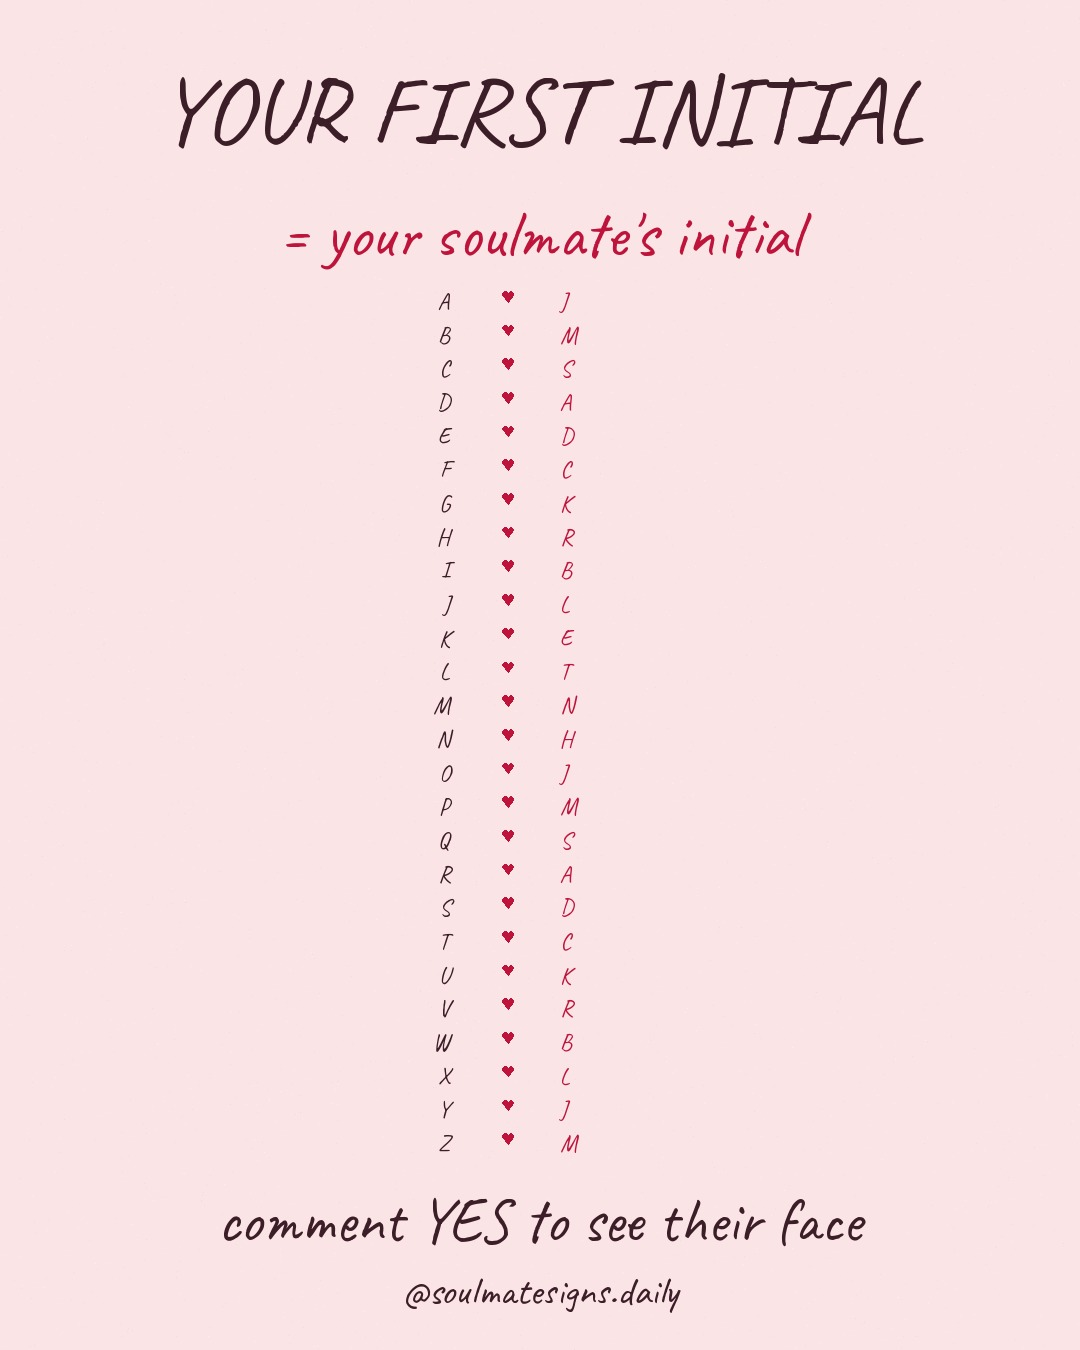
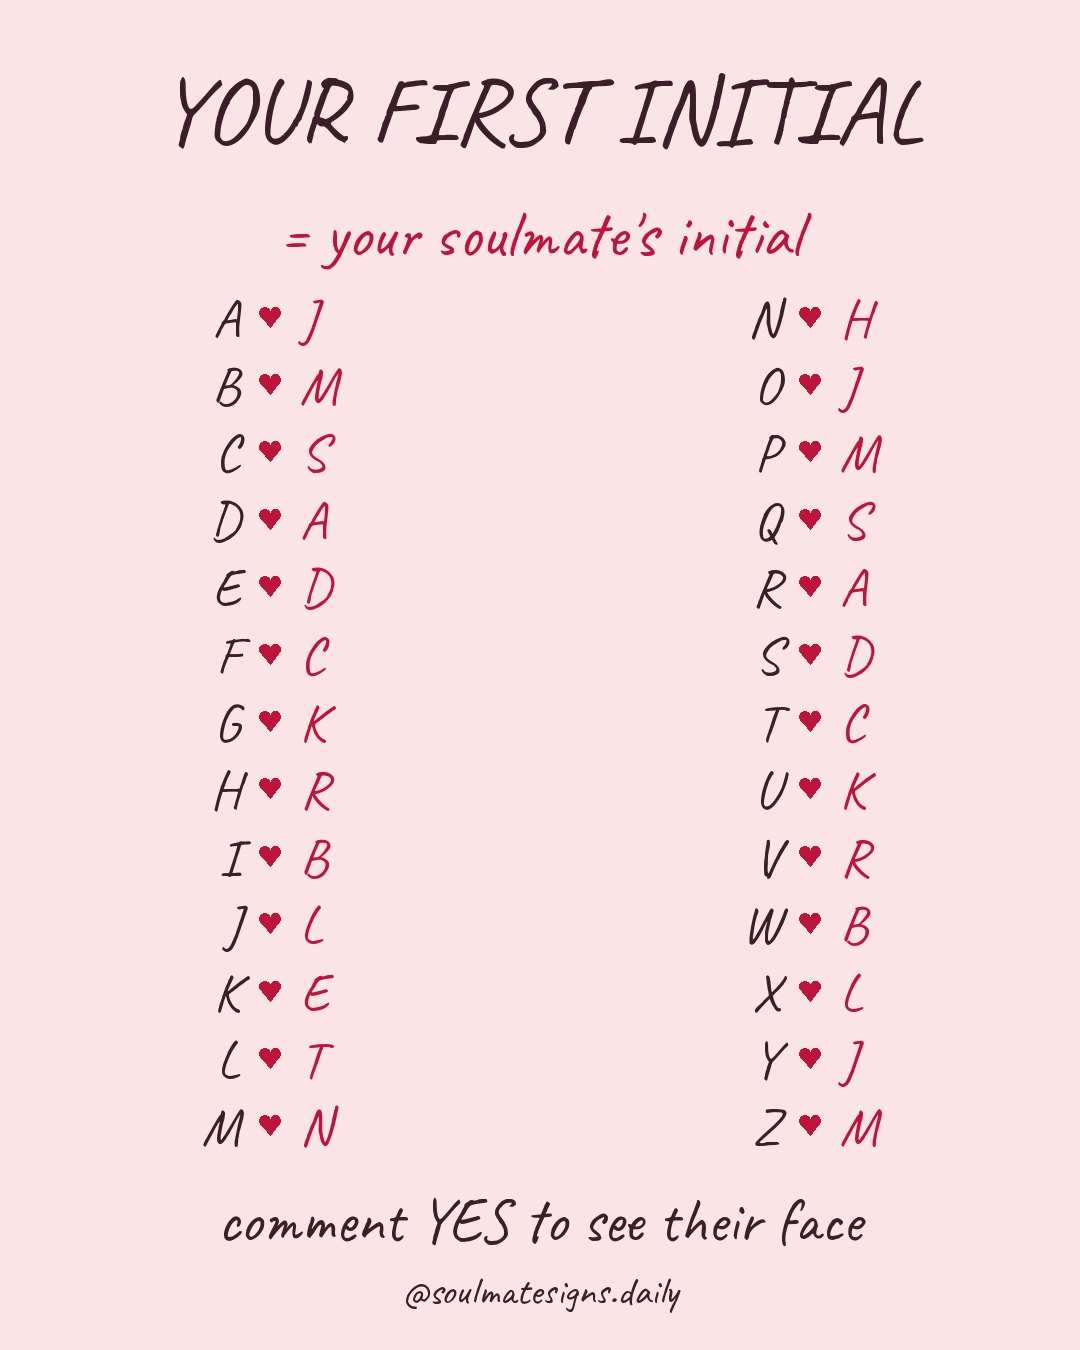
Photo post: two columns for long (A-Z) charts so text stays readable
Claude-Session: https://claude.ai/code/session_01APMZeDsXi6a4jWa5ZpCN4s

diff --git a/reelgen/chart_carousel.py b/reelgen/chart_carousel.py
@@ -76,7 +76,17 @@ def render(spec, out):
         handle(d, ink, n, n); im.save(f"{out}/slide{n}_{p}.jpg", quality=92)
         # single photo post
         im, d, ink, red = base(spec); y = hook_block(d, spec, ink, red, 110, 96)
-        rows_block(d, rows, ink, red, y + 10, H - 190, 80)
+        if len(rows) > 13:  # long lists (A-Z): two columns so text stays readable
+            half = -(-len(rows) // 2); rh = (H - 190 - y - 10) / half
+            for col, chunk in enumerate((rows[:half], rows[half:])):
+                cx = 270 + col * 540
+                for i, (a, b) in enumerate(chunk):
+                    yy = y + 10 + i * rh + rh / 2; sz = int(min(rh * .8, 64))
+                    while (f(sz).getlength(a) > 190 or f(sz).getlength(b) > 200) and sz > 24: sz -= 2
+                    d.text((cx - 30, yy), a, font=f(sz), fill=ink, anchor="rm"); heart(d, cx, yy - 4, min(rh * .16, 16), red)
+                    d.text((cx + 30, yy), b, font=f(sz), fill=red, anchor="lm")
+        else:
+            rows_block(d, rows, ink, red, y + 10, H - 190, 80)
         line = f"comment {spec.get('post_trigger', 'YES')} to see their face" if p == "fb" else (spec.get("footer") or "send this to your person")
         d.text((W / 2, H - 130), line, font=f(fit(d, line, 62, 960)), fill=ink, anchor="mm"); handle(d, ink)
         im.save(f"{out}/post_{p}.jpg", quality=92)
